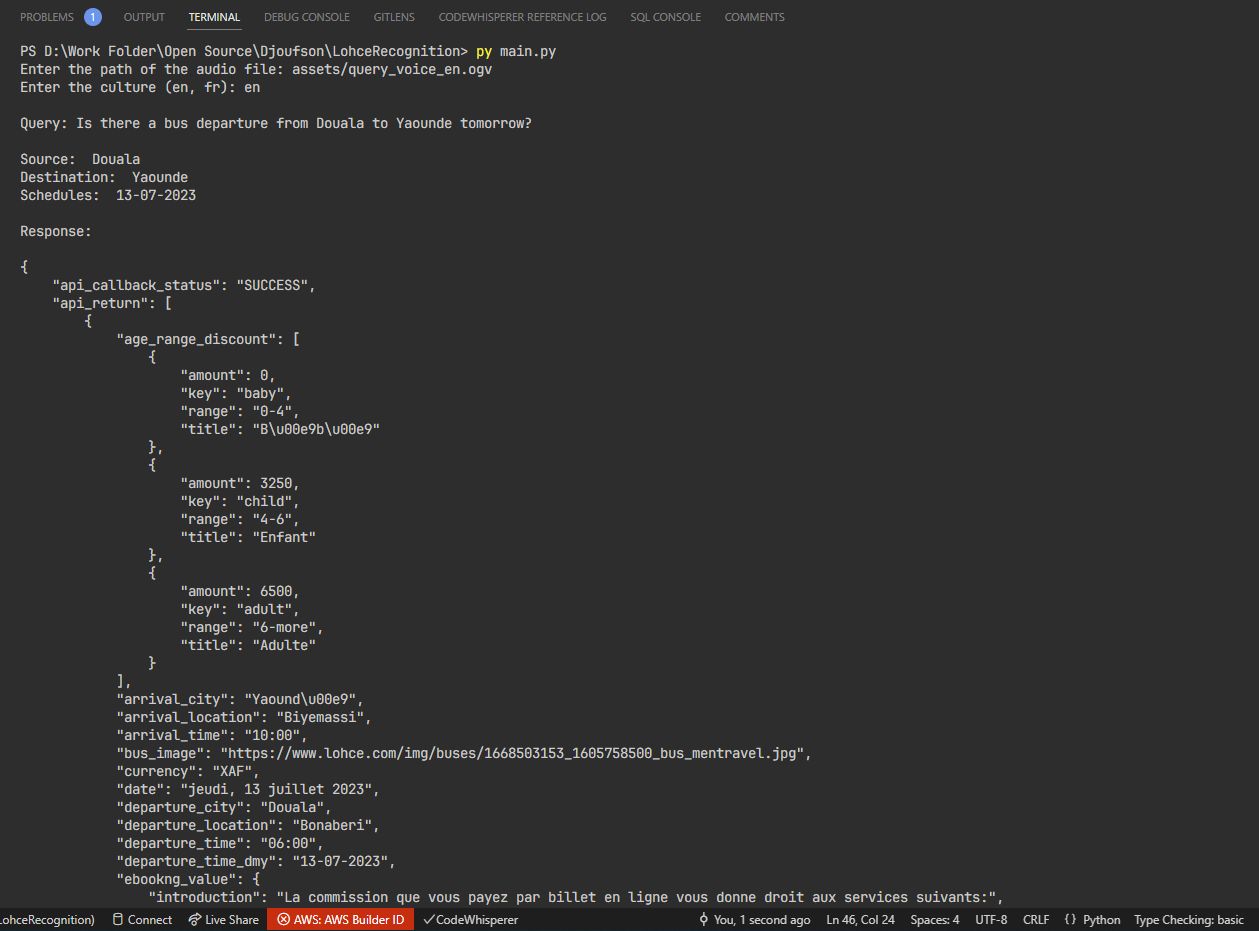
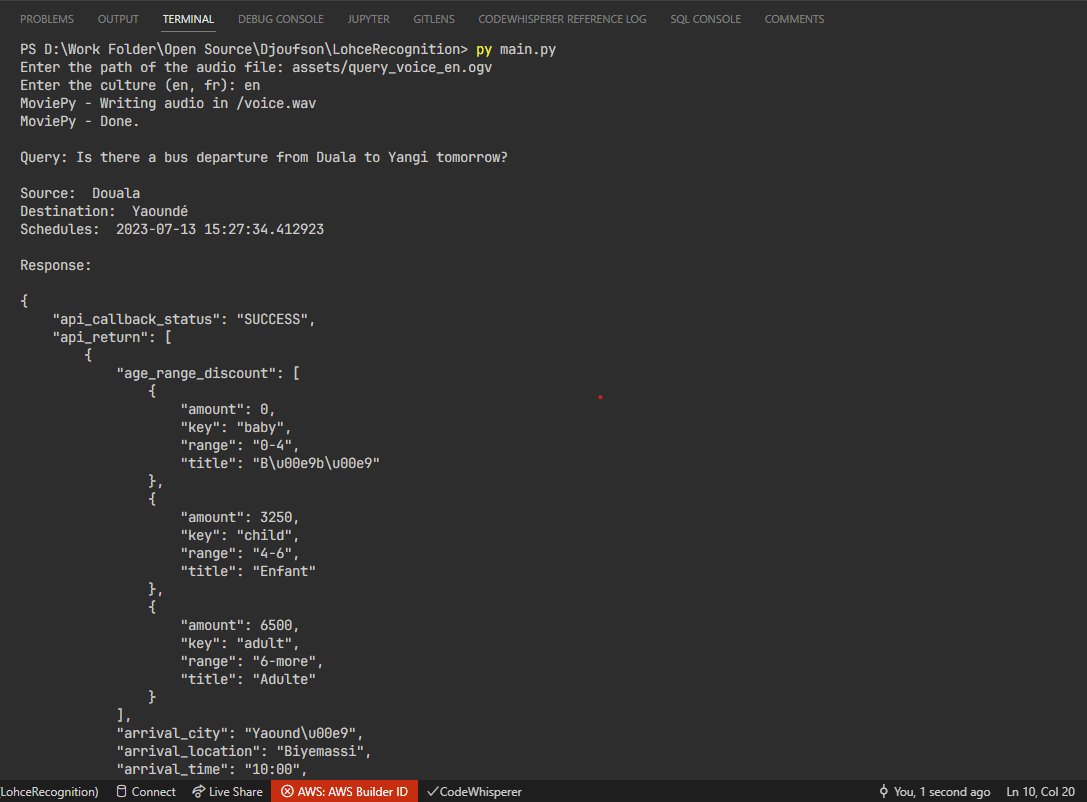
Finishing up

diff --git a/main.py b/main.py
@@ -28,7 +28,7 @@ if supported:
     should_proceed = False
     # Transcript the audio file
     text = recognizer.recognize_assembly(path)
-    print(text)
+    print("\nQuery:",text)
 
     should_proceed = text != None
 
@@ -39,11 +39,13 @@ if supported:
         source, destination, schedules = compute_spacy(text, nlp)
 
         # Print out the results
-        print("Source: ", source)
+        print("\nSource: ", source)
         print("Destination: ", destination)
         print("Schedules: ", schedules)
 
         # Call to the lohce api
         data = fetch_lohce(source, destination, schedules.strftime("%d-%m-%Y"))
         json_str = json.dumps(data.json(), indent=4, sort_keys=True)
+
+        print("\nResponse:\n")
         print(json_str)

diff --git a/recognizers/en/englishrecognizer.py b/recognizers/en/englishrecognizer.py
@@ -17,7 +17,8 @@ class EnglishRecognizer:
 
     def recognize_assembly(self, path):
         output_path = convert_to_wav(path)
-        aai.settings.api_key = "c623f21a00114c67a8e737f051c459ad"
+        aai.settings.api_key = "b075222292b445f394d0b70e76eb0cde"
+        # aai.settings.api_key = "c623f21a00114c67a8e737f051c459ad"
         transcriber = aai.Transcriber()
         response = transcriber.transcribe(output_path)
         return response.text
